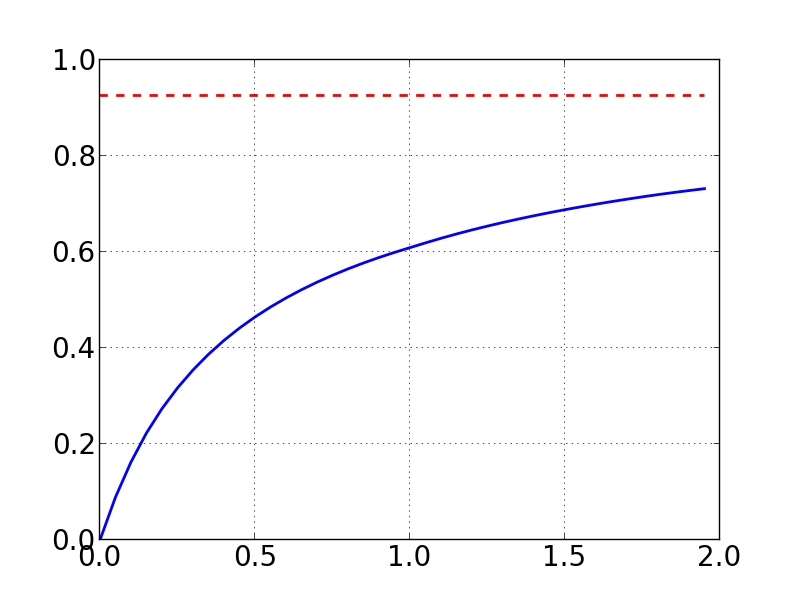
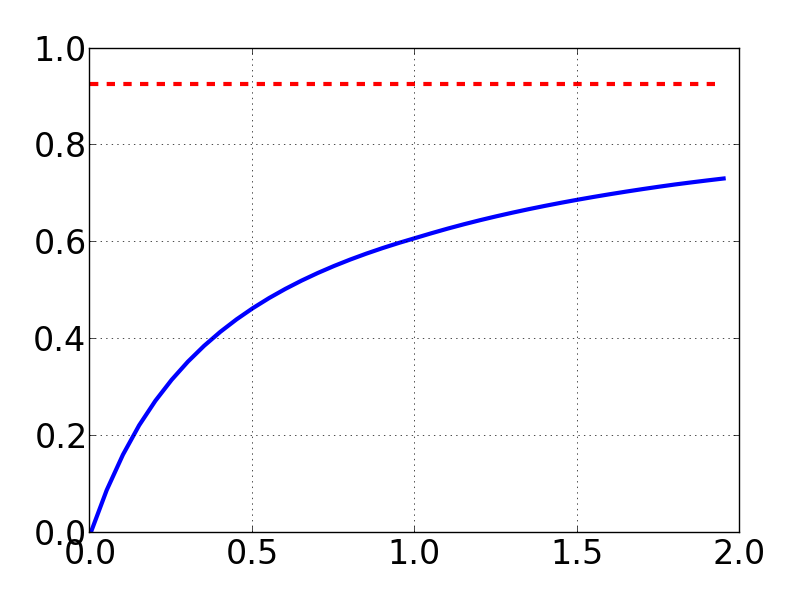
minor change

diff --git a/scripts/analysis_0115/smooth_plot.py b/scripts/analysis_0115/smooth_plot.py
@@ -17,7 +17,7 @@ from matplotlib.colors import BoundaryNorm
 from matplotlib.ticker import MaxNLocator
 
 #fontProperties = {'size': 16, 'family':'sans-serif','sans-serif':['Helvetica']}    
-rc('font', **{'size': 16})
+rc('font', **{'size': 24})
 #rc('text', usetex=True)
 
 # Plots to make:
@@ -115,7 +115,7 @@ def plot_qxu(data, task):
         y = [d[-1] for d in filtered]
         LL = [d[-2] for d in filtered]
         UL = [d[-3] for d in filtered]
-        pylab.plot(q_difficulty, y, color = colors[i], linestyle=lines[i], linewidth=2, label=legends[i])
+        pylab.plot(q_difficulty, y, color = colors[i], linestyle=lines[i], linewdith=3, label=legends[i])
         pylab.fill_between(q_difficulty,LL, UL, color = colors[i], alpha = 0.1)
         i += 1
 #    pylab.legend(legends)
@@ -139,7 +139,7 @@ def plot_qxfe(data, task, name):
         y = [d[-1] for d in filtered]
         LL = [d[-2] for d in filtered]
         UL = [d[-3] for d in filtered]
-        pylab.plot(X, y, color = colors[i], linestyle=lines[i], linewidth=2, label=legends[i])
+        pylab.plot(X, y, color = colors[i], linestyle=lines[i], linewdith=3, label=legends[i])
         pylab.fill_between(X, LL, UL, color = colors[i], alpha = 0.1)
         i += 1
     pylab.legend(bbox_to_anchor=(0., 1.02, 1., .102), loc=3,
@@ -164,17 +164,22 @@ def plot_qxfr(data, task, name):
         y = [d[-1] for d in filtered]
         LL = [d[-2] for d in filtered]
         UL = [d[-3] for d in filtered]
-        pylab.plot(X, y, color = colors[i], linestyle=lines[i], linewidth=2, label=legends[i])
-        pylab.fill_between(X, LL, UL, color = colors[i], alpha = 0.1)
+        pylab.plot(X, y, color = colors[i], linestyle=lines[i], linewidth=3, label=legends[i])
+#        pylab.fill_between(X, LL, UL, color = colors[i], alpha = 0.1)
         i += 1
-    pylab.legend(bbox_to_anchor=(0., 1.02, 1., .102), loc=3,
-           ncol=4, mode="expand", borderaxespad=0.) 
- 
+#    pylab.legend(bbox_to_anchor=(0., 1.02, 1., .102), loc=3,
+#           ncol=4, mode="expand", borderaxespad=0.) 
+
+    if 'high' in name:
+        pylab.legend()
+    elif 'low' in name:
+        pylab.legend(loc=2)
     pylab.xlabel('Sublist relevance')
     pylab.xlim((min(X), max(X)))
     #pylab.ylim((0, 1))
     pylab.ylabel('Probability that RLR helps')
     outfile = outputfile(task, name)
+    fig.tight_layout()
     pylab.savefig('%s.png'%(outfile))
 
 def plot_frxq(data, task, name):
@@ -188,7 +193,7 @@ def plot_frxq(data, task, name):
         y = [d[-1] for d in filtered]
         LL = [d[-2] for d in filtered]
         UL = [d[-3] for d in filtered]
-        pylab.plot(X, y, color = colors[i], linestyle=lines[i], linewidth=2, label=legends[i])
+        pylab.plot(X, y, color = colors[i], linestyle=lines[i], linewdith=3, label=legends[i])
         pylab.fill_between(X, LL, UL, color = colors[i], alpha = 0.1)
         i += 1
     pylab.legend(bbox_to_anchor=(0., 1.02, 1., .102), loc=3,
@@ -213,7 +218,7 @@ def plot_qxfexfr(data, task, name):
         y = [d[-1] for d in filtered]
         LL = [d[-2] for d in filtered]
         UL = [d[-3] for d in filtered]
-        pylab.plot(X, y, color = colors[i], linestyle=lines[i], linewidth=2, label=legends[i])
+        pylab.plot(X, y, color = colors[i], linestyle=lines[i], linewdith=3, label=legends[i])
         pylab.fill_between(X, LL, UL, color = colors[i], alpha = 0.1)
         i += 1
 #    pylab.legend(bbox_to_anchor=(0., 1.02, 1., .102), loc=3,
@@ -237,17 +242,18 @@ def plot_qxfrxfe(data, task, name):
         y = [d[-1] for d in filtered]
         LL = [d[-2] for d in filtered]
         UL = [d[-3] for d in filtered]
-        pylab.plot(X, y, color = colors[i], linestyle=lines[i], linewidth=2, label=legends[i])
-        pylab.fill_between(X, LL, UL, color = colors[i], alpha = 0.1)
+        pylab.plot(X, y, color = colors[i], linestyle=lines[i], linewidth=3, label=legends[i])
+#       pylab.fill_between(X, LL, UL, color = colors[i], alpha = 0.1)
         i += 1
-    pylab.legend(bbox_to_anchor=(0., 1.02, 1., .102), loc=3,
-           ncol=4, mode="expand", borderaxespad=0.) 
-#    pylab.legend()
+#    pylab.legend(bbox_to_anchor=(0., 1.02, 1., .102), loc=3,
+#           ncol=4, mode="expand", borderaxespad=0.) 
+    pylab.legend(loc=3)
     pylab.xlabel('Sublist entropy')
     pylab.xlim((min(X), max(X)))
     pylab.ylim((0, 1.05))
     pylab.ylabel('Probability that RLR helps')
     outfile = outputfile(task, name)
+    fig.tight_layout()
     pylab.savefig('%s.png'%(outfile))
 
 def plot_frxfe(data, task, name):
@@ -261,7 +267,7 @@ def plot_frxfe(data, task, name):
         y = [d[-1] for d in filtered]
         LL = [d[-2] for d in filtered]
         UL = [d[-3] for d in filtered]
-        pylab.plot(X, y, color = colors[i], linestyle=lines[i], linewidth=2, label=legends[i])
+        pylab.plot(X, y, color = colors[i], linestyle=lines[i], linewdith=3, label=legends[i])
         pylab.fill_between(X, LL, UL, color = colors[i], alpha = 0.1)
         i += 1
     pylab.legend(bbox_to_anchor=(0., 1.02, 1., .102), loc=3, ncol=4, mode="expand", borderaxespad=0.) 
@@ -284,7 +290,7 @@ def plot_fentropy_ulevel(task):
         filtered = list(itertools.ifilter(lambda x: x[2] == u_level[1], data))
         f_entropy = [d[1] for d in filtered]
         y = [d[8] for d in filtered]
-        pylab.plot(f_entropy, y, color=colors[i], linestyle=lines[i], linewidth=2, label=legends[i])
+        pylab.plot(f_entropy, y, color=colors[i], linestyle=lines[i], linewdith=3, label=legends[i])
         i += 1
     pylab.legend(bbox_to_anchor=(0., 1.02, 1., .102), loc=3,
            ncol=4, mode="expand", borderaxespad=0.) 

diff --git a/scripts/analysis/lambda_shape.py b/scripts/analysis/lambda_shape.py
@@ -10,7 +10,7 @@ styles = ['-b', '.-r', '--g', 'x-m']
 legends = ['$\lambda=1$', '$\lambda=0.1$', '$\lambda=0.05$', '$\lambda=0.01$']
 
 X = steps+1
-pylab.figure()
+fig = pylab.figure()
 
 i = 0
 for l in [1, 0.1, 0.05, 0.01]:
@@ -20,14 +20,16 @@ for l in [1, 0.1, 0.05, 0.01]:
 	for x in p_continue[1:]:
 		s = s*x
 		p_reach.append(x)
-	pylab.plot(X, p_reach, styles[i], linewidth=2.) 
+	pylab.plot(X, p_reach, styles[i], linewidth=3.) 
 	i += 1
 
-pylab.legend(legends, bbox_to_anchor=(0., 1.02, 1., .102), loc=3, ncol=4, mode="expand", borderaxespad=0.)
+#pylab.legend(legends, bbox_to_anchor=(0., 1.02, 1., .102), loc=3, ncol=4, mode="expand", borderaxespad=0.)
+pylab.legend(legends)
 pylab.xlabel('Rank')
 pylab.ylabel('Probability of reaching rank $r$')
  
-pylab.rc('text', fontsize=18)
+pylab.rc('text', fontsize=24)
+fig.tight_layout()
 pylab.show()
 
 

diff --git a/scripts/analysis_0115/smooth_param.py b/scripts/analysis_0115/smooth_param.py
@@ -15,7 +15,7 @@ from matplotlib import rc
 import operator
 import itertools
 
-rc('font', **{'size': 20})
+rc('font', **{'size': 24})
 
 
 runfile = '../../data/testruns/nodup/run13.ql.nodup'
@@ -124,14 +124,15 @@ def ndcg_distribution(data):
         U = kl_user
         smooth += 0.05
 
-    pylab.plot(X, Y, linewidth=2)
-    pylab.plot(X, Z, '--r', linewidth=2)
+    fig = pylab.figure()
+    pylab.plot(X, Y, linewidth=3)
+    pylab.plot(X, Z, '--r', linewidth=3)
     pylab.grid()
          
 #    for u in U:
 #        y = [u for i in range(len(X))]
 #        pylab.plot(X, y, ':b', linewidth=2)
-
+    fig.tight_layout()
     pylab.savefig('plots/smooth_shape.png')
 
 

diff --git a/scripts/simulate_smooth.py b/scripts/simulate_smooth.py
@@ -50,7 +50,7 @@ def generate_parameters():
  
 def load_categories(catefile):
     f = open(catefile)
-    content = [d.split('\t') for d in f.readlines()]
+    content = [d.strip().split('\t') for d in f.readlines()]
     f.close()
     # category tuple: (site_id, category)    
     categories = [(d[0], d[3].split(',')) for d in content]

diff --git a/scripts/simulate_user.py b/scripts/simulate_user.py
@@ -27,7 +27,7 @@ def generate_parameters():
  
 def load_categories(catefile):
 	f = open(catefile)
-	content = [d.split('\t') for d in f.readlines()]
+	content = [d.strip().split('\t') for d in f.readlines()]
 	f.close()
 	# category tuple: (site_id, category)	
 	categories = [(d[0], d[3].strip().split(',')) for d in content]

diff --git a/scripts/simulate_user_gain.py b/scripts/simulate_user_gain.py
@@ -35,7 +35,7 @@ def generate_parameters():
  
 def load_categories(catefile):
 	f = open(catefile)
-	content = [d.split('\t') for d in f.readlines()]
+	content = [d.strip().split('\t') for d in f.readlines()]
 	f.close()
 	# category tuple: (site_id, category)	
 	categories = [(d[0], d[3].strip().split(',')) for d in content]

diff --git a/scripts/simulate.py b/scripts/simulate.py
@@ -31,7 +31,7 @@ def generate_parameters():
  
 def load_categories(catefile):
 	f = open(catefile)
-	content = [d.split('\t') for d in f.readlines()]
+	content = [d.strip().split('\t') for d in f.readlines()]
 	f.close()
 	# category tuple: (site_id, category)	
 	categories = [(d[0], d[3].split(',')) for d in content]

diff --git a/scripts/simulate_gain.py b/scripts/simulate_gain.py
@@ -34,7 +34,7 @@ def generate_parameters():
  
 def load_categories(catefile):
 	f = open(catefile)
-	content = [d.split('\t') for d in f.readlines()]
+	content = [d.strip().split('\t') for d in f.readlines()]
 	f.close()
 	# category tuple: (site_id, category)	
 	categories = [(d[0], d[3].split(',')) for d in content]

diff --git a/scripts/analysis_0115/anaParam.py b/scripts/analysis_0115/anaParam.py
@@ -163,6 +163,8 @@ def makeplot(D):
         # Legend
         pylab.ylim(pylab.ylim()[0], ymax*1.2)
         pylab.legend(legends)
+        pylab.xlabel('Effort')
+        pylab.ylabel(r'$\lambda$')
         #pylab.title(plot_name)
         
         # save figure
